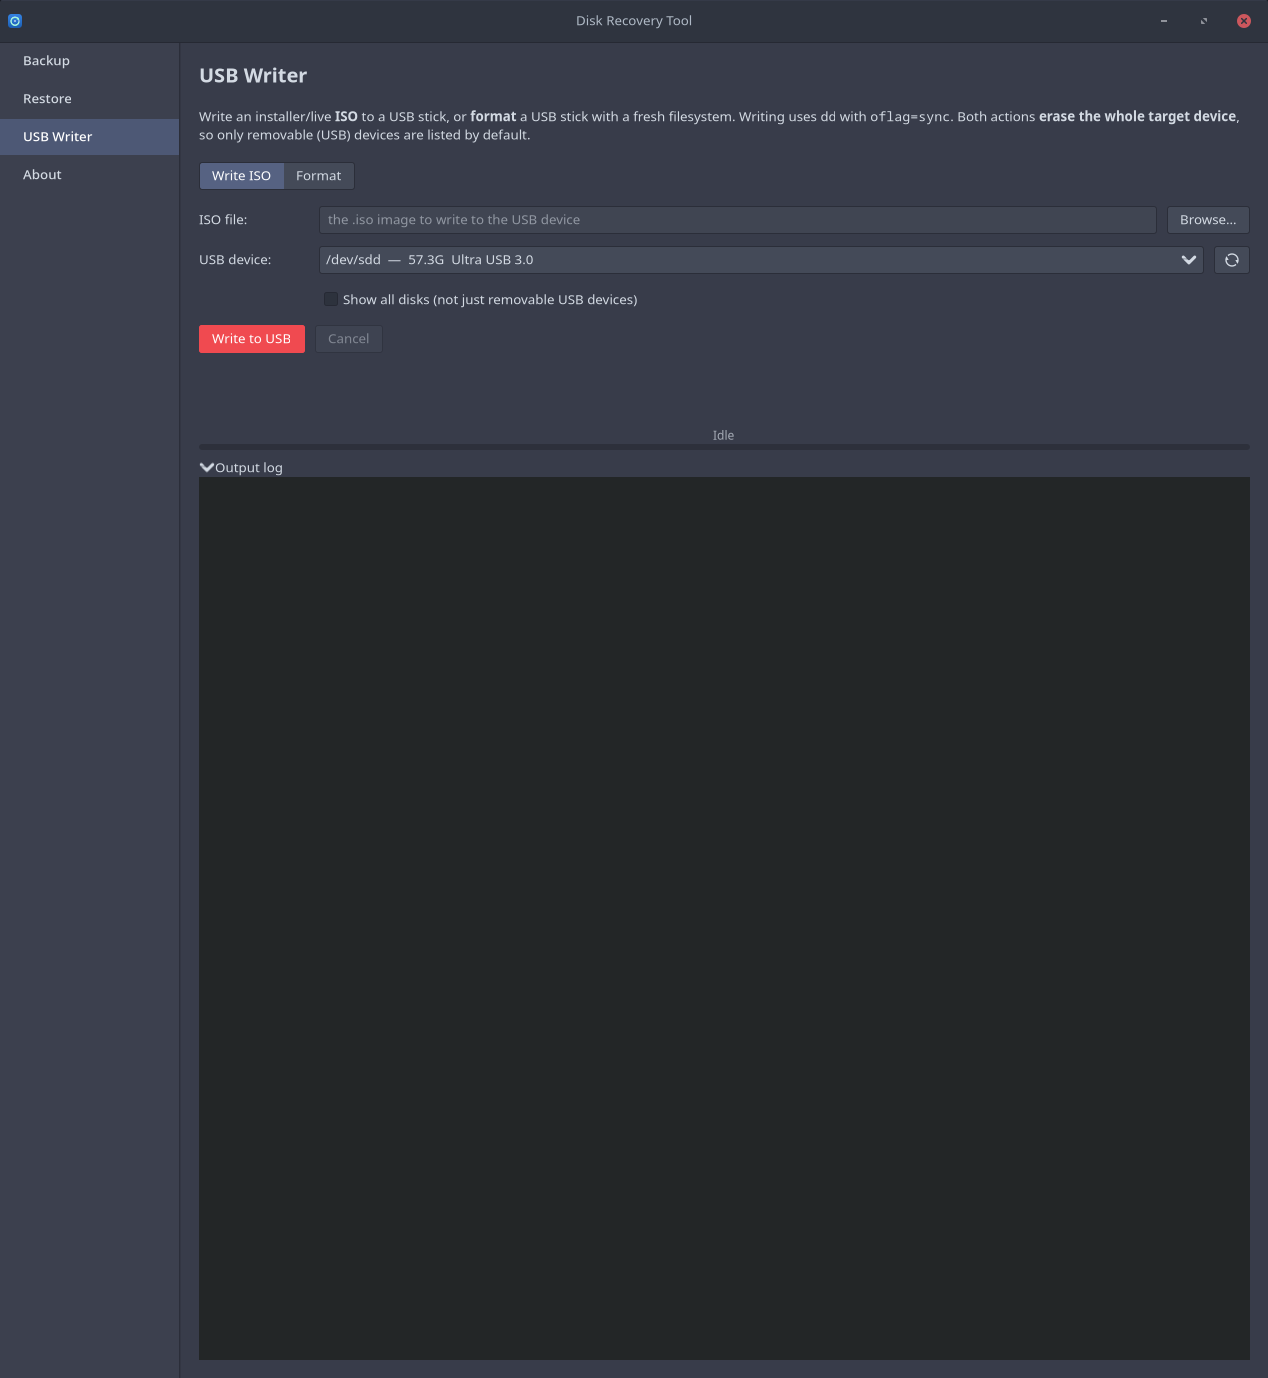
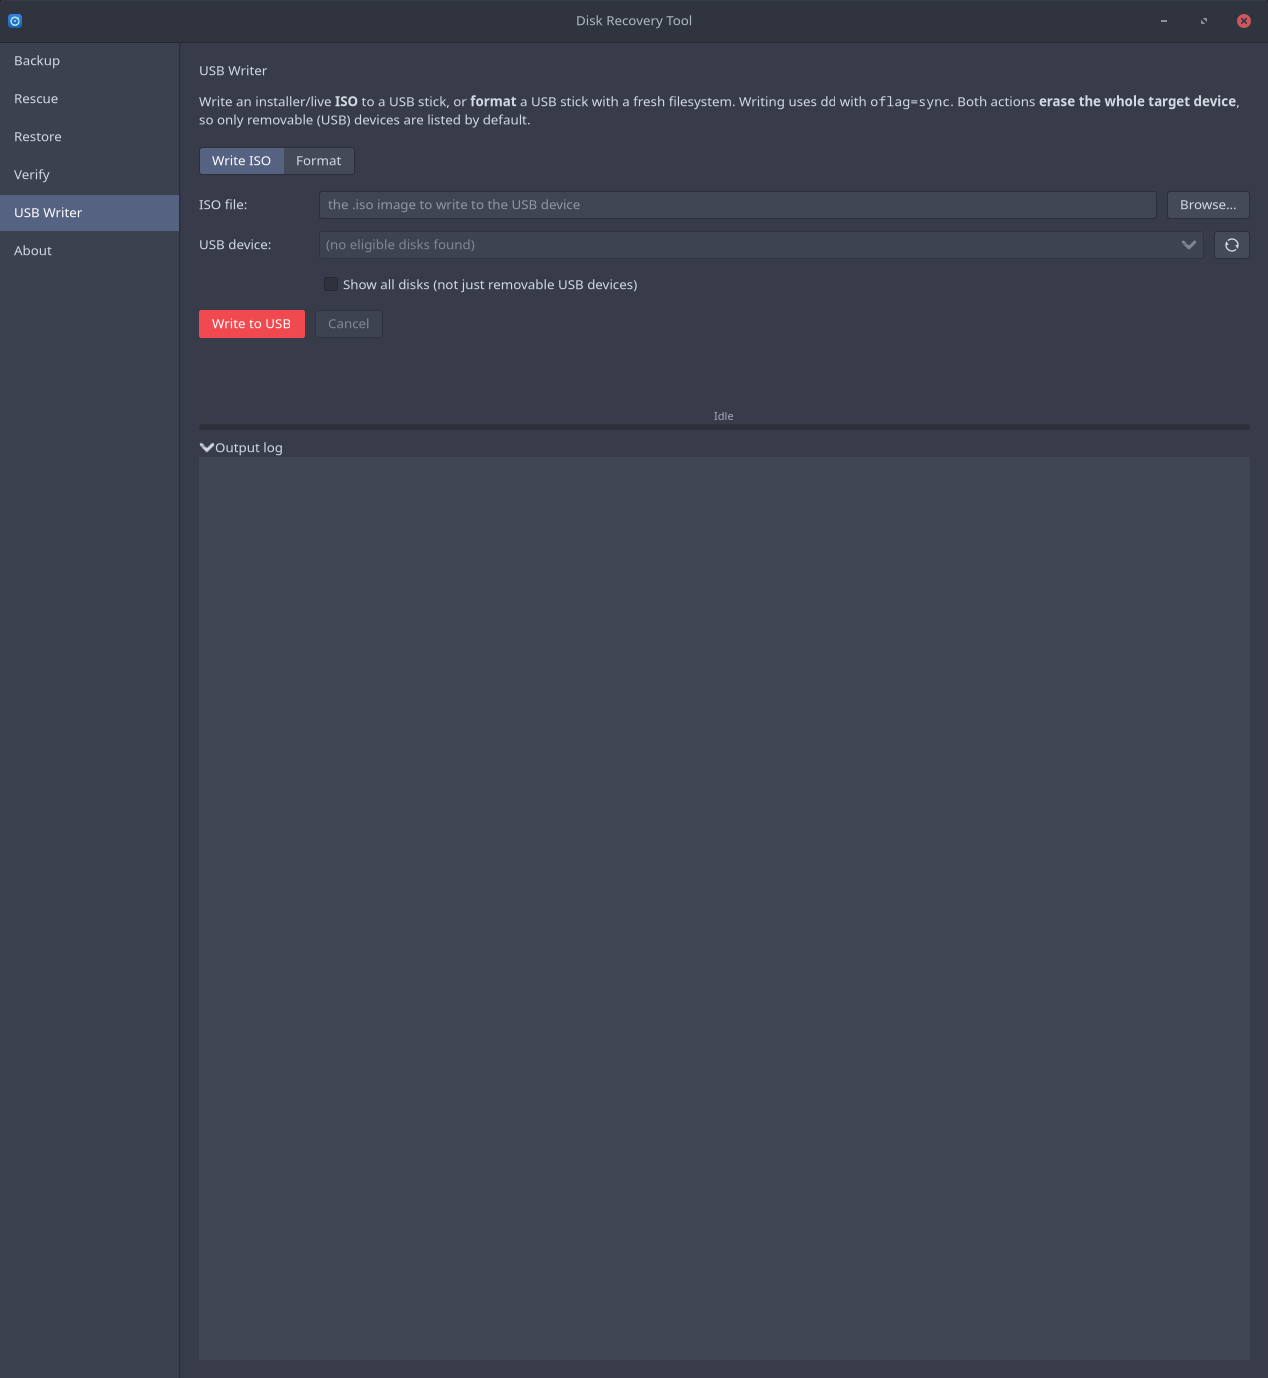
docs: refresh screenshots for 0.3.0 (add Rescue, update USB Writer sidebar)
The README screenshot showed the pre-0.3.0 four-item sidebar. Re-captured
both shots against the current build so the sidebar shows all six pages
(Backup · Rescue · Restore · Verify · USB Writer · About), and added a
Rescue-page screenshot as the new hero image.

diff --git a/README.md b/README.md
@@ -46,6 +46,8 @@ scripts you can run from a terminal, so the GUI and CLI never drift apart.
   NTFS, or ext4. Lists removable devices only by default and names the exact
   device in a confirmation dialog before it writes or formats.
 
+![Disk Recovery Tool — Rescue page](images/rescue.png)
+
 ![Disk Recovery Tool — USB Writer page](images/usb-writer.png)
 
 ## Repository layout